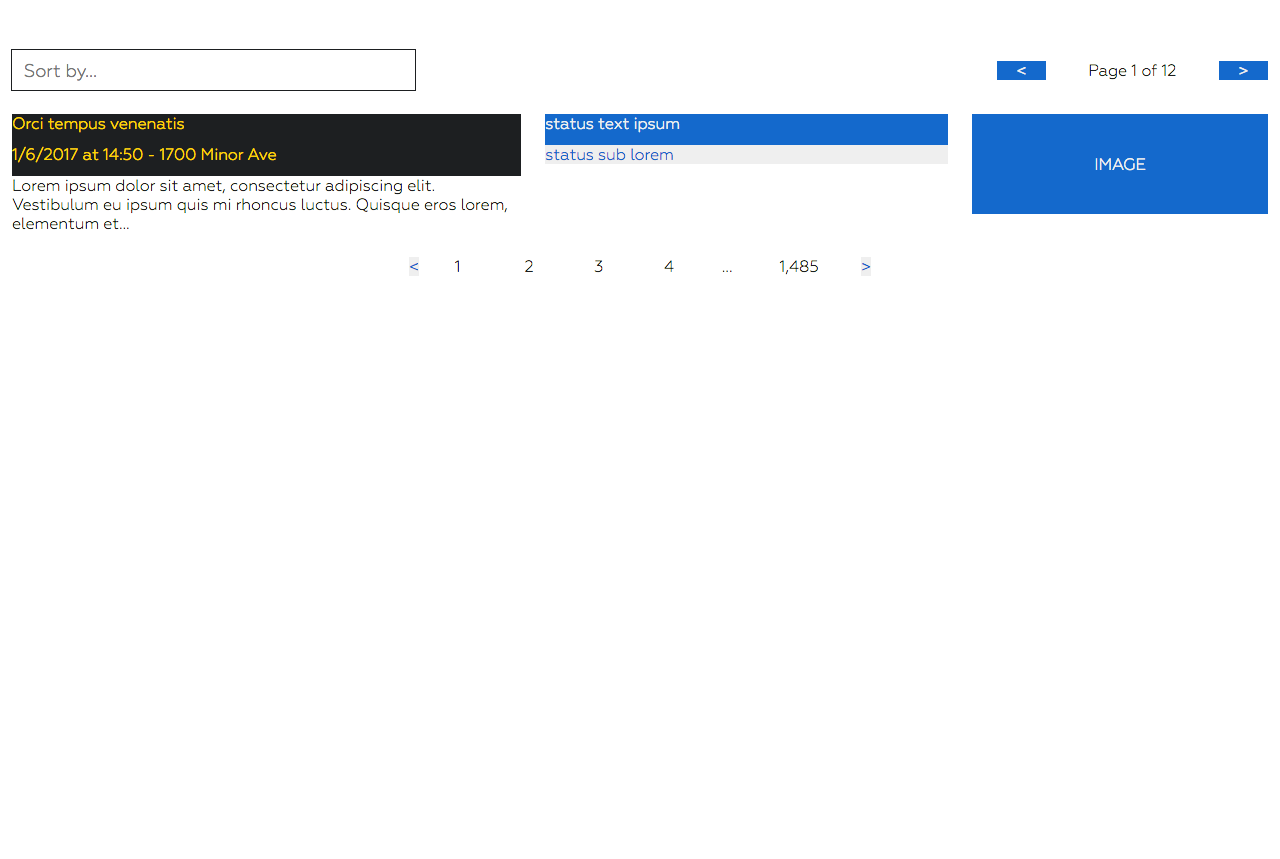
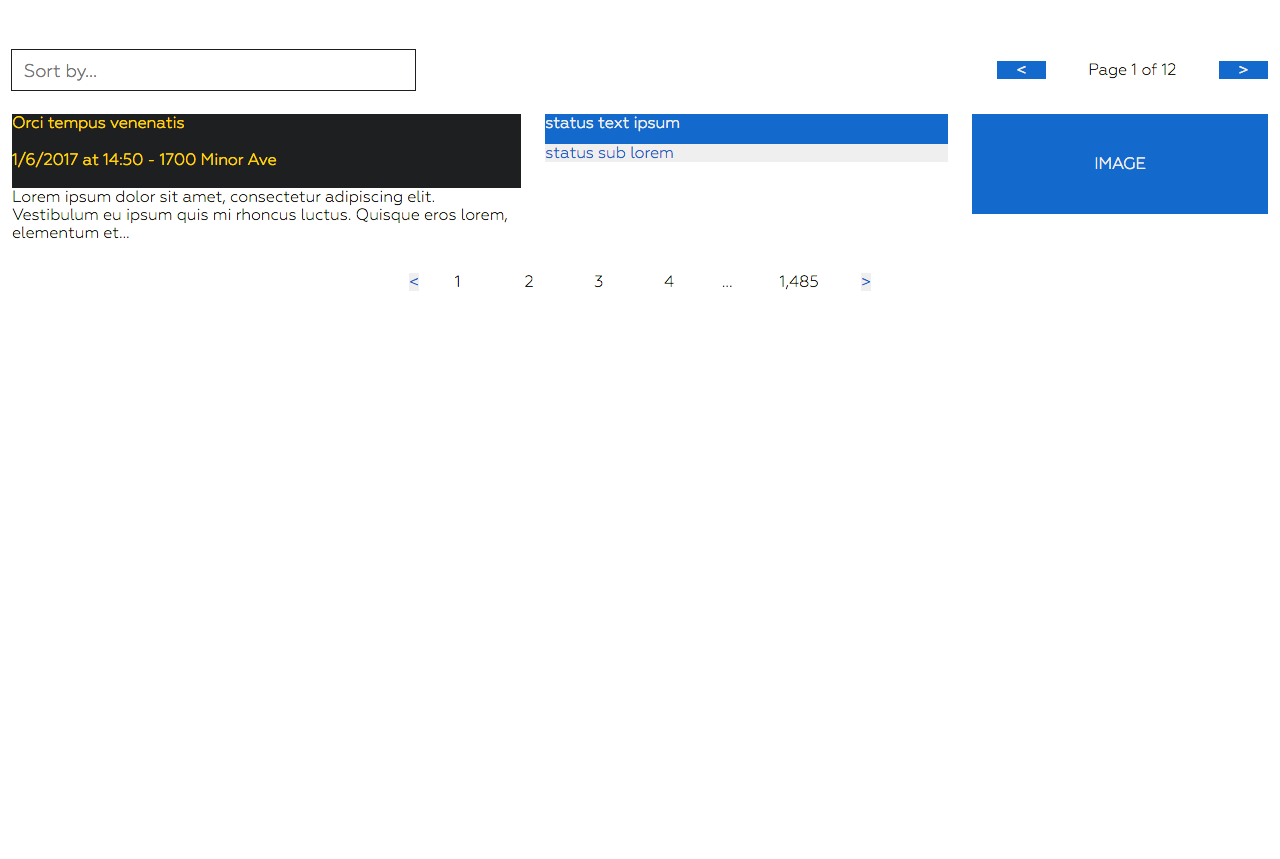
fix(grid): Correct size 'fit' on Edge (#218)
Add support for MS Edge

There are many cross browser text rendering differences that do not matter for the
purposes of Reflex but that impact image comparison tests (they are still pixel differences)

To work around that this PR makes 3 changes:

- Add css reset
- Remove text where it was problematic and not needed
- Set a fixed pixel height where compound 1px differences caused by cross browser text
  rendering issues where big enough to cause the tests to fail

diff --git a/storybook/stories/grid/padding.js b/storybook/stories/grid/padding.js
@@ -1,24 +1,41 @@
 // @flow
 import React from 'react'
+import type { Children } from 'react'
 import { Grid, Col } from 'reflex'
-import { RootLayout, getMarginSelect, loremIpsum } from '../../shared'
+import type { Size } from '../../../src/types'
+import { RootLayout, getMarginSelect } from '../../shared'
 import { all, topRight, xBottom } from '../../shared/marginTypes'
 import styles from '../../shared/stories.css'
+
+type HeadingProps = {
+  children: Children,
+  size?: Size,
+}
+
+/**
+ * fonts render differently between browsers, which impacts image comparison tests. To reduce these
+ * differences, we lock the header height
+ */
+const Heading = ({ children, size }: HeadingProps) =>
+  <Grid marginBottom={1} size={size} style={{ height: 61 }}>
+    <h1>
+      {children}
+    </h1>
+  </Grid>
 
 export default function() {
   const margin = getMarginSelect()
   const text = (
-    <div className={styles.colors1}>
-      {loremIpsum.substr(0, 150)}
-    </div>
+    <div
+      className={styles.colors1}
+      style={{ minHeight: 55, width: '100%', textAlign: 'center' }}
+    />
   )
 
   return (
     <RootLayout>
       <Col>
-        <Grid marginBottom={1}>
-          <h1>Default (No Padding)</h1>
-        </Grid>
+        <Heading>Default (No Padding)</Heading>
         <Grid size={6} dev={2}>
           <Grid margin={margin} dev={3}>
             {text}
@@ -26,12 +43,8 @@ export default function() {
         </Grid>
       </Col>
       <Col>
-        <Grid size={6} marginBottom={1}>
-          <h1>Top Right Padding</h1>
-        </Grid>
-        <Grid size={6} marginBottom={1}>
-          <h1>Item Top Right Padding</h1>
-        </Grid>
+        <Heading size={6}>Top Right Padding</Heading>
+        <Heading size={6}>Item Top Right Padding</Heading>
         <Grid size={6} dev={2} padding={topRight}>
           <Grid margin={margin} dev={3}>
             {text}
@@ -44,12 +57,8 @@ export default function() {
         </Grid>
       </Col>
       <Col>
-        <Grid size={6} marginBottom={1}>
-          <h1>All-sides Padding</h1>
-        </Grid>
-        <Grid size={6} marginBottom={1}>
-          <h1>Item All-sides Padding</h1>
-        </Grid>
+        <Heading size={6}>All-sides Padding</Heading>
+        <Heading size={6}>Item All-sides Padding</Heading>
         <Grid size={6} dev={2} padding={all}>
           <Grid margin={margin} dev={3}>
             {text}
@@ -62,12 +71,8 @@ export default function() {
         </Grid>
       </Col>
       <Col>
-        <Grid size={6} marginBottom={1}>
-          <h1>Bottom Padding</h1>
-        </Grid>
-        <Grid size={6} marginBottom={1}>
-          <h1>Item Bottom Padding</h1>
-        </Grid>
+        <Heading size={6}>Bottom Padding</Heading>
+        <Heading size={6}>Item Bottom Padding</Heading>
         <Grid size={6} dev={2} paddingBottom={1}>
           <Grid margin={margin} dev={3}>
             {text}
@@ -80,12 +85,8 @@ export default function() {
         </Grid>
       </Col>
       <Col>
-        <Grid size={6} marginBottom={1}>
-          <h1>Top-Right-Left Padding</h1>
-        </Grid>
-        <Grid size={6} marginBottom={1}>
-          <h1>Item Top-Right-Left Padding</h1>
-        </Grid>
+        <Heading size={6}>Top-Right-Left Padding</Heading>
+        <Heading size={6}>Item Top-Right-Left Padding</Heading>
         <Grid size={6} dev={2} padding={xBottom}>
           <Grid margin={margin} dev={3}>
             {text}
@@ -99,9 +100,7 @@ export default function() {
       </Col>
 
       <Col>
-        <Grid marginBottom={1}>
-          <h1>With Justify / Alignment</h1>
-        </Grid>
+        <Heading>With Justify / Alignment</Heading>
         <Grid size={6} marginBottom={1}>
           <h2>Container Padding</h2>
         </Grid>

diff --git a/storybook/stories/layout/parent.js b/storybook/stories/layout/parent.js
@@ -2,19 +2,16 @@
 import React from 'react'
 import { number } from '@storybook/addon-knobs'
 import { Grid, Layout, Root } from 'reflex'
-import { loremIpsum } from '../../shared'
 import styles from '../../shared/layout.css'
 
 export default function() {
-  const repeats = number('Add text', 3, { range: true, min: 0, max: 5 })
+  const height = number('Add height', 0, { range: true, min: 0, max: 5000 })
 
   return (
     <Layout height="parent" className={styles.page} dev={2}>
       <Root>
         <Grid margin={[0, 0.5]}>
-          <Grid padding={[1]}>
-            {loremIpsum.repeat(repeats)}
-          </Grid>
+          <Grid padding={[1]} style={{ height }} dev={1} />
         </Grid>
       </Root>
     </Layout>

diff --git a/storybook/stories/layout/auto.js b/storybook/stories/layout/auto.js
@@ -2,7 +2,6 @@
 import React from 'react'
 import { boolean } from '@storybook/addon-knobs'
 import { Grid, Layout, Root } from 'reflex'
-import { loremIpsum } from '../../shared'
 import styles from '../../shared/layout.css'
 
 export default function() {
@@ -14,7 +13,7 @@ export default function() {
         <Root>
           <Grid margin={[0, 0.5]}>
             <Grid padding={[1]}>
-              {loremIpsum}
+              The auto Layout height fills the remaining space
             </Grid>
           </Grid>
         </Root>

diff --git a/storybook/stories/components/search/results.js b/storybook/stories/components/search/results.js
@@ -33,7 +33,10 @@ export default function SearchResults({
         </Col>
       </Grid>
       {times(results, key =>
-        <Grid key={key}>
+        <Grid key={key} style={{ height: 159 }}>
+          {/**
+            * Explicitly setting height to work around cross browser font height differences
+            */}
           <Col size={5}>
             <Grid marginBottom={0.5} dev={1}>
               Orci tempus venenatis

diff --git a/scripts/postcss.config.js b/scripts/postcss.config.js
@@ -4,6 +4,7 @@ const cssImport = require('postcss-import')
 const cssNano = require('cssnano')
 const cssNesting = require('postcss-nesting')
 const cssNext = require('postcss-cssnext')
+const cssFlexFix = require('postcss-flexbugs-fixes')
 
 module.exports = {
   plugins: [
@@ -19,5 +20,6 @@ module.exports = {
       },
     }),
     cssNano(),
+    cssFlexFix(),
   ],
 }

diff --git a/src/base.css b/src/base.css
@@ -44,12 +44,15 @@
   }
 
   &.col-fit {
-    flex-basis: 0;
+    flex-basis: 0%; /* % is required for Edge */
     white-space: nowrap;
   }
 
   &.col-auto {
-    flex: 1 1 0%;
+    /* expanded shorthand for Edge */
+    flex-grow: 1;
+    flex-shrink: 1;
+    flex-basis: 0%; /* % is required for Edge */
   }
 }
 

diff --git a/storybook/shared/stories.css b/storybook/shared/stories.css
@@ -1,5 +1,21 @@
 @import "./variables.css";
 
+html {
+  line-height: 1.15;
+  font-size: 100%;
+  -ms-text-size-adjust: 100%;
+  -webkit-text-size-adjust: 100%;
+}
+
+article,
+aside,
+footer,
+header,
+nav,
+section {
+  display: block;
+}
+
 body {
   margin: 0;
   padding: 50px 0;

diff --git a/test/screenshot/specs/index.js b/test/screenshot/specs/index.js
@@ -41,7 +41,7 @@ function getBrowserName({ options }) {
   switch (browserName) {
     case 'internet explorer':
       return 'ie'
-    case 'MicrosoftEdge':
+    case 'microsoftedge':
       return 'edge'
     default:
       return browserName

diff --git a/storybook/stories/examples/layout.css b/storybook/stories/examples/layout.css
@@ -4,11 +4,11 @@
   /* header heights, hard coded offsets */
 
   & .main {
-    margin-top: 62px;
+    margin-top: 56px;
   }
 
   &.hasSubheader .main {
-    margin-top: 177px;
+    margin-top: 168px;
   }
   /* end of hard coded offsets */
 }

diff --git a/storybook/shared/layout.css b/storybook/shared/layout.css
@@ -1,12 +1,11 @@
 .page {
   position: absolute;
   top: 0;
+  line-height: 1;
 
   & p,
   & ul,
-  & li,
-  & h1,
-  & h2 {
+  & li {
     margin: 0;
     padding: 0;
   }

diff --git a/storybook/stories/examples/report.css b/storybook/stories/examples/report.css
@@ -2,7 +2,7 @@
 
 /* header heights, hard coded offsets */
 .reportMain {
-  margin-top: 157px;
+  margin-top: 144px;
 }
 /* end of hard coded offsets */
 
